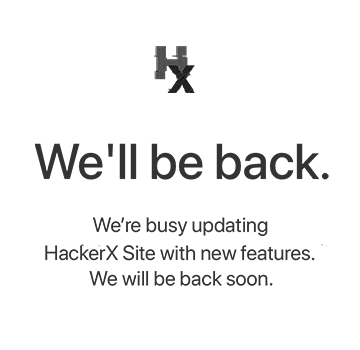
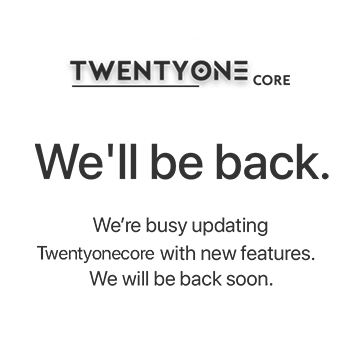
New 404

Changed region(s): [[0.1833, 0.1143, 0.825, 0.2857], [0.0917, 0.6857, 0.4278, 0.7429]]

diff --git a/404.html b/404.html
@@ -36,7 +36,7 @@
           height: 350px;
           margin-left: auto;
           margin-right: auto;
-          background-image: url('https://hackerxyt.github.io/1221.png');
+          background-image: url('./1221.png');
           text-indent: -9999px;
           white-space: nowrap;
           overflow: hidden;
@@ -45,7 +45,7 @@
         /* 2x Image */
         @media only screen and (-webkit-min-device-pixel-ratio: 2), only screen and (-moz-min-device-pixel-ratio: 2), only screen and (-o-min-device-pixel-ratio: 2 / 1), only screen and (min-device-pixel-ratio: 2), only screen and (min-resolution: 192dpi), only screen and (min-resolution: 2dppx) {
           #brb-image {
-            background-image: url('https://hackerxyt.github.io/brb_3x.png');
+            background-image: url('./brb_3x.png');
             -webkit-background-size: 360px 350px;
             -moz-background-size: 360px 350px;
             -o-background-size: 360px 350px;
@@ -59,8 +59,7 @@
   <body>
     <div id="card">
       <div id="brb-image" title="We'll be back." alt="We'll be back. We're busy updating the site and will be back soon."></div>
-      <div id="copyright">Copyright ©&nbsp;<script>document.write(new Date().getFullYear())</script> HackerX Inc. All rights reserved.</div>
-      <div id="copyright">Early? <a href="login.html">Click here</a></div>
+      <div id="copyright">Copyright ©&nbsp;<script>document.write(new Date().getFullYear())</script> TwentyoneCore Inc. All rights reserved.</div>
     </div>
   
 
